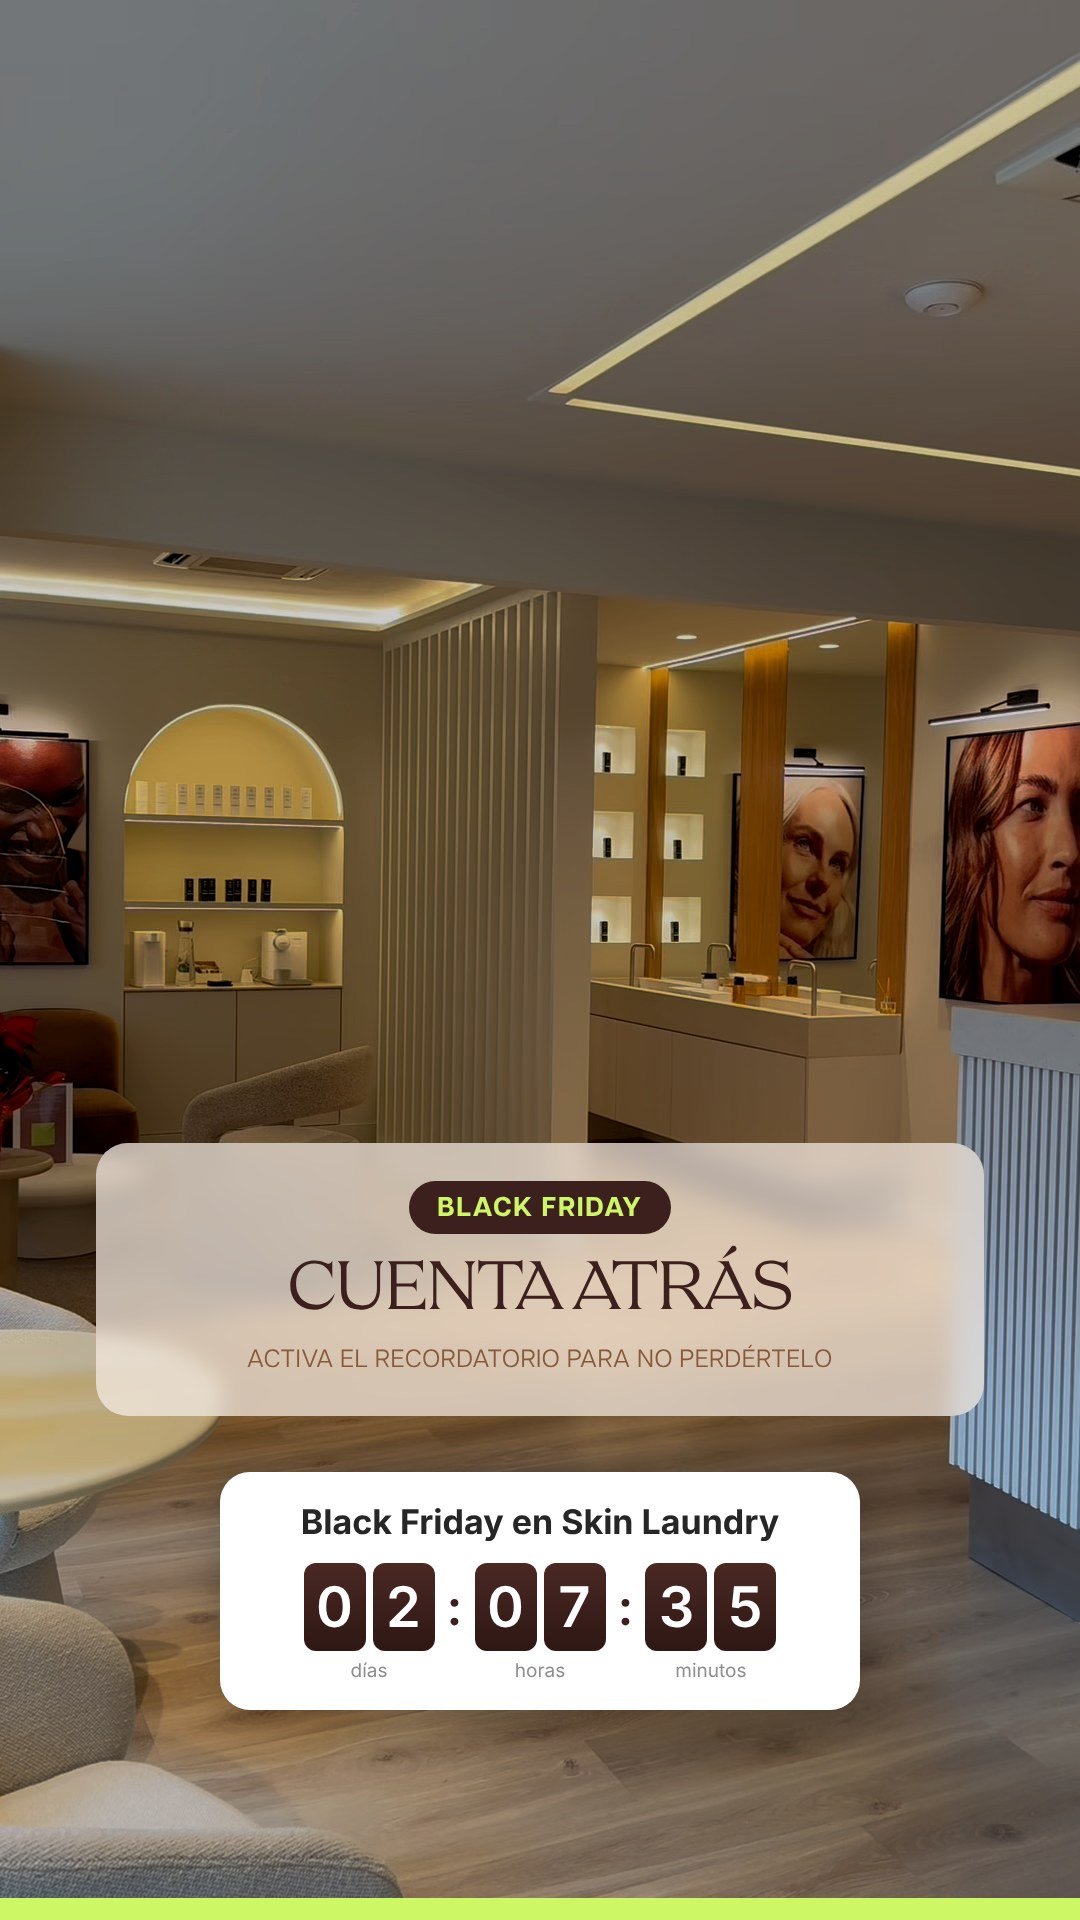
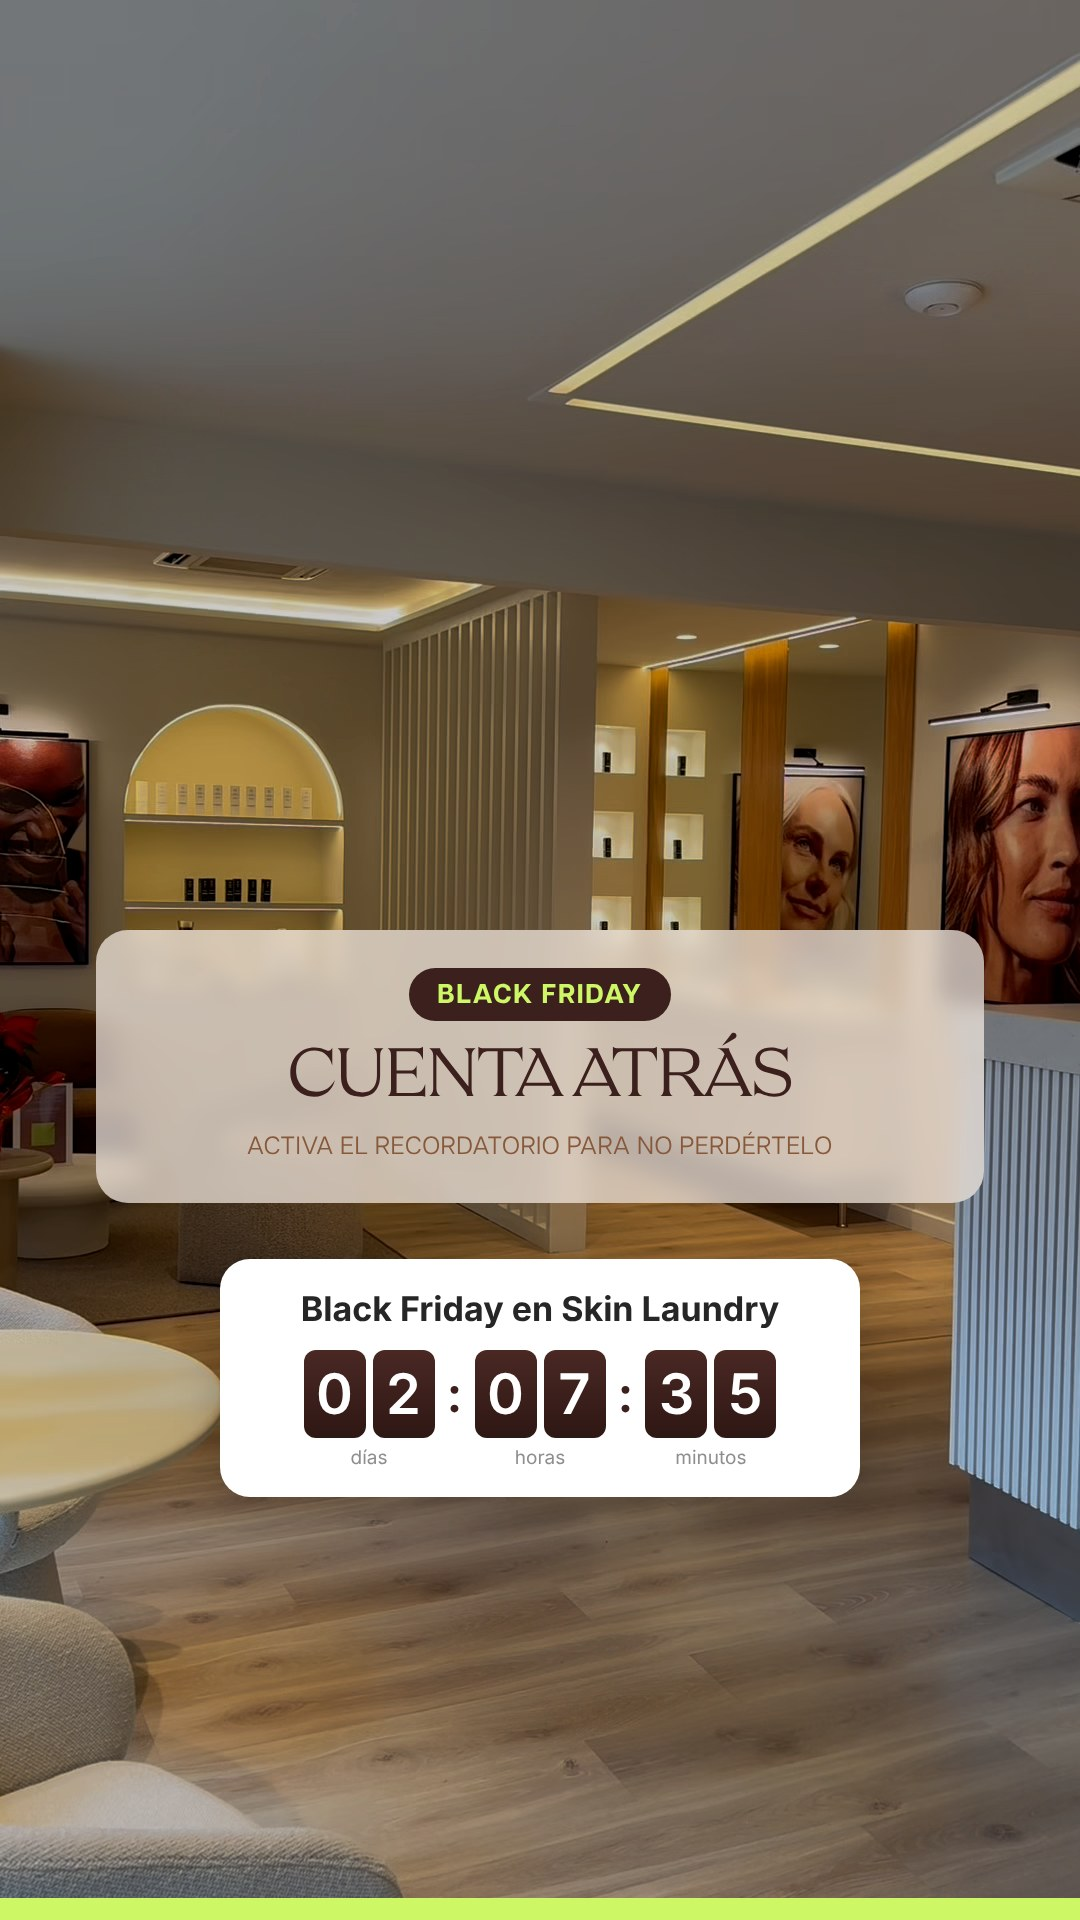
Lunes 16: stories 2 y 3 del teaser con el contenido más centrado
Claude-Session: https://claude.ai/code/session_01JZ4qrB4vBJCM1LriYw1bZU

Changed region(s): [[0.0917, 0.4688, 0.9167, 0.9062]]

diff --git a/public/pitch/skin-laundry-calendario/noviembre/index.html b/public/pitch/skin-laundry-calendario/noviembre/index.html
@@ -886,7 +886,7 @@ const MOSTRAR_STORIES = false;
 const STORIES = {
   /* Pedidas por el cliente el mismo día: teaser del Black Friday (sin enseñar la oferta, que se desvela el 18) */
   16: { titulo:"Teaser Black Friday", hora:"Hoy", estado:"listo",
-        imgs:["/pitch/skin-laundry-calendario/noviembre/img/s16_1.jpg?v=11161330","/pitch/skin-laundry-calendario/noviembre/img/s16_2.jpg?v=11161325","/pitch/skin-laundry-calendario/noviembre/img/s16_3.jpg?v=11161325"],
+        imgs:["/pitch/skin-laundry-calendario/noviembre/img/s16_1.jpg?v=11161330","/pitch/skin-laundry-calendario/noviembre/img/s16_2.jpg?v=11161340","/pitch/skin-laundry-calendario/noviembre/img/s16_3.jpg?v=11161340"],
         items:["Algo bueno está por llegar · lo contamos el miércoles · sin sticker","Tu lista de deseos: ¿hay algo para tu piel este año? · caja de preguntas: ¿qué tratamiento te pedirías?","Cuenta atrás · sticker de cuenta atrás hasta el miércoles 18 a las 19:30 (sale el post) · activa el recordatorio"] },
   /* Pack que iba a salir el miércoles 11 y no se publicó: pasa al viernes 13 */
   13: { titulo:"Pack de stories", hora:"12:00h", estado:"listo",
